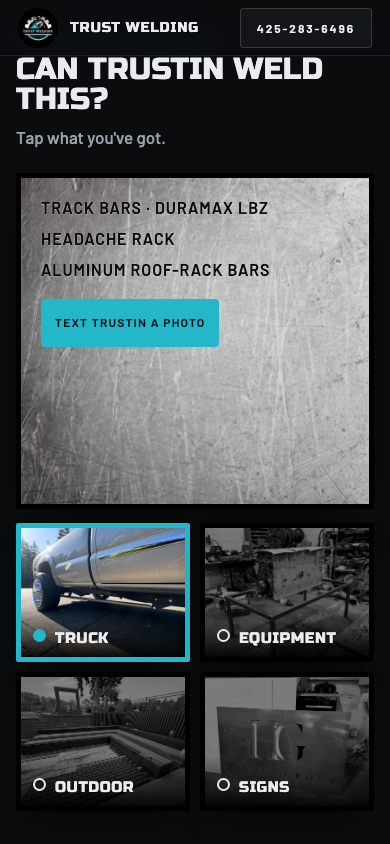
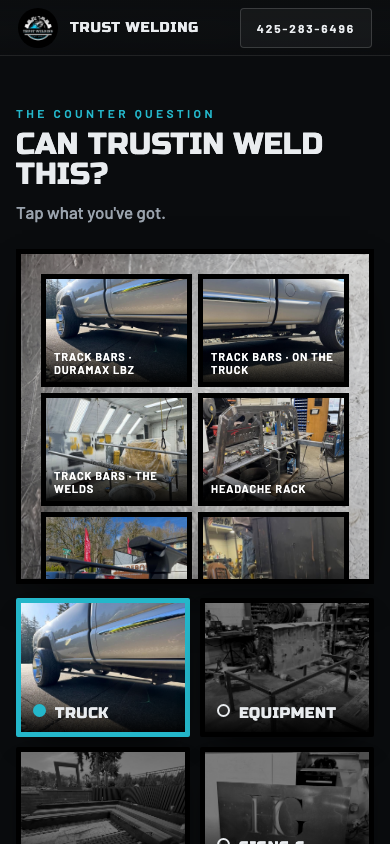
Trust Welding, Hayden 11/6: one stage in thirds (photo left, plate right), the weld seam wipes between every photo, words change per group; the gadget shows every photo of a kind; arc band out

diff --git a/trust-welding/learned/index.html b/trust-welding/learned/index.html
@@ -9,11 +9,11 @@
 <meta name="description" content="Trust Welding: custom metal fabrication and mobile welding serving King County. Steel, aluminum and Corten. Call or text 425-283-6496.">
 <link rel="preconnect" href="https://fonts.googleapis.com"><link rel="preconnect" href="https://fonts.gstatic.com" crossorigin>
 <link href="https://fonts.googleapis.com/css2?family=Russo+One&family=Barlow:wght@400;500;600&family=Archivo:wght@600;700&display=swap" rel="stylesheet">
-<link rel="stylesheet" href="css/site3.css?v=1793940878">
-<link rel="stylesheet" href="css/fold-text.css?v=1793940878">
-<link rel="stylesheet" href="css/wtj.css?v=1793940878">
-<link rel="stylesheet" href="css/molten-metal.css?v=1793940878">
-<link rel="stylesheet" href="css/learned.css?v=1793940878">
+<link rel="stylesheet" href="css/site3.css?v=1793980238">
+<link rel="stylesheet" href="css/fold-text.css?v=1793980238">
+<link rel="stylesheet" href="css/wtj.css?v=1793980238">
+<link rel="stylesheet" href="css/molten-metal.css?v=1793980238">
+<link rel="stylesheet" href="css/learned.css?v=1793980238">
 <link rel="icon" href="images/badge.jpg">
 </head>
 <body>
@@ -34,8 +34,9 @@
   </section>
   <!-- life: a gliding strip of his real jobs (every name from his own captions) -->
   <div class="clients" aria-label="Jobs on this page"><div class="clients-track" id="clientsTrack"><span>Colibri Coffee Roasters</span><i aria-hidden="true"></i><span>Premier Chiropractic</span><i aria-hidden="true"></i><span>Hopper Group</span><i aria-hidden="true"></i><span>a Seattle cocktail door</span><i aria-hidden="true"></i><span>a Corten fire pit in Snohomish</span><i aria-hidden="true"></i><span>a Cat rebuild</span><i aria-hidden="true"></i><span>track bars for a Duramax</span><i aria-hidden="true"></i><span>a gantry lift</span><i aria-hidden="true"></i></div></div>
-  <div class="flow" id="flow" data-per="3">
-    <div class="photos" aria-label="His work, from his Instagram">
+  <section class="stageflow" id="flow" data-per="3" style="--shots:12" aria-label="His work">
+    <div class="sstage">
+      <div class="shot" aria-label="His work, from his Instagram">
       <figure><img src="images/work/premier-chiropractic-install.jpg" srcset="images/work/phone/premier-chiropractic-install.jpg 760w, images/work/1080/premier-chiropractic-install.jpg 1080w, images/work/premier-chiropractic-install.jpg 1400w" sizes="(max-width:900px) 90vw, 46vw" width="1290" height="2294" alt="Install · Premier Chiropractic" loading="lazy" decoding="async"><figcaption>Install · Premier Chiropractic</figcaption></figure>
       <figure><img src="images/work/headache-rack.jpg" srcset="images/work/phone/headache-rack.jpg 760w, images/work/1080/headache-rack.jpg 1080w, images/work/headache-rack.jpg 1400w" sizes="(max-width:900px) 90vw, 46vw" width="1400" height="1392" alt="Headache rack" loading="lazy" decoding="async"><figcaption>Headache rack</figcaption></figure>
       <figure><img src="images/work/d-rings-roll-off-bed.jpg" srcset="images/work/phone/d-rings-roll-off-bed.jpg 760w, images/work/1080/d-rings-roll-off-bed.jpg 1080w, images/work/d-rings-roll-off-bed.jpg 1400w" sizes="(max-width:900px) 90vw, 46vw" width="640" height="1136" alt="D-rings · roll-off bed" loading="lazy" decoding="async"><figcaption>D-rings · roll-off bed</figcaption></figure>
@@ -48,17 +49,19 @@
       <figure><img src="images/work/mariners-trident-2.jpg" srcset="images/work/phone/mariners-trident-2.jpg 760w, images/work/1080/mariners-trident-2.jpg 1080w, images/work/mariners-trident-2.jpg 1400w" sizes="(max-width:900px) 90vw, 46vw" width="1400" height="1606" alt="Trident cut-out · second piece" loading="lazy" decoding="async"><figcaption>Trident cut-out · second piece</figcaption></figure>
       <figure><img src="images/work/gantry-lift-2.jpg" srcset="images/work/phone/gantry-lift-2.jpg 760w, images/work/1080/gantry-lift-2.jpg 1080w, images/work/gantry-lift-2.jpg 1400w" sizes="(max-width:900px) 90vw, 46vw" width="1400" height="1866" alt="Gantry lift · second view" loading="lazy" decoding="async"><figcaption>Gantry lift · second view</figcaption></figure>
       <figure><img src="images/work/gantry-lift-3.jpg" srcset="images/work/phone/gantry-lift-3.jpg 760w, images/work/1080/gantry-lift-3.jpg 1080w, images/work/gantry-lift-3.jpg 1400w" sizes="(max-width:900px) 90vw, 46vw" width="1400" height="1866" alt="Gantry lift · the frame" loading="lazy" decoding="async"><figcaption>Gantry lift · the frame</figcaption></figure>
-    </div>
-    <aside class="panel" aria-label="About the work">
-      <div class="stack">
+        <div class="seam" aria-hidden="true"></div>
+      </div>
+      <aside class="panel" aria-label="About the work">
+        <div class="stack">
         <section class="sec" id="what" aria-label="What he does"><div class="fold"><p class="eyebrow">What he does</p><h2>The install at Premier Chiropractic. Racks on your truck.</h2><p>Custom pieces built to the job, and mobile welding when the job can’t come to the shop. Steel, aluminum and Corten.</p><ul><li>Custom fabrication: signs, gates, railings, planters, racks, counters, etc.</li><li>Mobile welding across King County</li><li>Structural and equipment repair</li><li>Truck and trailer work: track bars, headache racks, roof racks, D-rings, and more</li></ul></div></section>
         <section class="sec" id="trucks" aria-label="Trucks, trailers and the machines they feed"><div class="fold"><p class="eyebrow">Trucks, trailers and the machines they feed</p><h2>Duramax track bars to a Cat motor mount</h2><p>Track bars for a Duramax, aluminum roof-rack bars, a headache rack, D-rings on a roll-off bed. A motor mount for a Cat rebuild, a gantry lift built from the frame up, equipment repair where the machine sits.</p></div></section>
         <section class="sec" id="outside" aria-label="Outside, and inside for business"><div class="fold"><p class="eyebrow">Outside, and inside for business</p><h2>Corten in Snohomish. A bar for Colibri.</h2><p>A Corten fire pit in Snohomish, custom steel planter boxes, a sign for Hopper Group. The barista bar rail at Colibri Coffee Roasters, a trident cut-out for a Seattle cocktail door, the install at Premier Chiropractic. Built in the shop, set in place on site.</p></div></section>
         <section class="sec" id="why" aria-label="The shop"><div class="fold"><p class="eyebrow">The shop</p><h2>Est. 2025, eleven jobs posted</h2><p>One welder, start to finish. You talk to the person holding the torch. Every photo here is work he posted. Text a photo and a rough size.</p><div class="ways"><a class="btn primary" href="sms:+14252836496">Text 425-283-6496</a><a class="btn" href="#quote">The form</a></div></div></section>
-        <div class="dots" aria-hidden="true"></div>
-      </div>
-    </aside>
-  </div>
+          <div class="dots" aria-hidden="true"></div>
+        </div>
+      </aside>
+    </div>
+  </section>
   <section class="wtj" id="whats-the-job" aria-labelledby="wtj-h">
     <div class="wtj-in">
       <p class="wtj-eyebrow">The counter question</p>
@@ -73,7 +76,7 @@
       </div>
     </div>
   </section>
-  <section class="quote" id="quote"><span id="contact"></span><div class="arc" id="arc" aria-hidden="true"></div>
+  <section class="quote" id="quote"><span id="contact"></span>
     <div class="quote-in">
       <div>
         <p class="eyebrow">Quote</p>
@@ -103,13 +106,13 @@
 </footer>
 <script src="js/vendor/gsap.min.js"></script>
 <script src="js/vendor/ScrollTrigger.min.js"></script>
-<script src="js/vendor/fold-text.js?v=1793940878"></script>
-<script src="js/vendor/wtj/whats-the-job.js?v=1793940878"></script>
+<script src="js/vendor/fold-text.js?v=1793980238"></script>
+<script src="js/vendor/wtj/whats-the-job.js?v=1793980238"></script>
 <script>
 // the panel holds; the section changes every 3 photos (the photo column's scroll progress); every time a section opens its words fold open (React Bits Fold Text, ported: js/vendor/fold-text.js)
 gsap.registerPlugin(ScrollTrigger);
 const reduce = matchMedia('(prefers-reduced-motion: reduce)').matches;
-const secs = [...document.querySelectorAll('.sec')], photos = document.querySelector('.photos'), figs = [...photos.querySelectorAll('figure')], dots = document.querySelector('.dots');
+const secs = [...document.querySelectorAll('.sec')], shot = document.querySelector('.shot'), figs = [...shot.querySelectorAll('figure')], seam = shot.querySelector('.seam'), flow = document.getElementById('flow'), dots = document.querySelector('.dots');
 secs.forEach(() => dots.appendChild(document.createElement('i')));
 const folds = secs.map(s => reduce ? [] : [...s.querySelectorAll('h2, p, li')].map(el => buildFoldText(el, el.tagName === 'H2' ? { splitBy: 'char', stagger: Math.min(0.045, 0.6 / Math.max(1, el.textContent.trim().length)) } : { splitBy: 'word', stagger: Math.min(0.03, 0.5 / Math.max(1, el.textContent.trim().split(/\s+/).length)) })));   // h2 by letter (the original's default), paragraphs and list items by word
 let cur = -1;
@@ -125,14 +128,19 @@ function show(i) {
   gsap.killTweensOf(rest);
   gsap.fromTo(rest, { y: 14, opacity: 0 }, { y: 0, opacity: 1, duration: 0.55, ease: 'power2.out', stagger: 0.06, delay: 0.25 });
 }
-// which section: the index of the photo nearest the middle of the screen, divided by 3
-const per = 3;
-function pick() {
-  const mid = innerHeight * 0.5; let best = 0, gap = Infinity;
-  figs.forEach((f, k) => { const r = f.getBoundingClientRect(); const c = r.top + r.height / 2; const d = Math.abs(c - mid); if (d < gap) { gap = d; best = k; } });
-  show(Math.min(secs.length - 1, Math.floor(best / per)));
-}
-ScrollTrigger.create({ trigger: photos, start: 'top 85%', end: 'bottom 15%', onUpdate: pick, onEnter: pick });
+// the photos change with the weld seam as you scroll (the Colibri move, on every photo; Hayden 11/6); the words change every 3 photos
+const per = 3, total = figs.length - 1 + 0.4;
+if (!reduce && figs.length > 1) {
+  const tl = gsap.timeline({ defaults: { ease: 'none' } });
+  for (let i = 1; i < figs.length; i++) {
+    const t = i - 0.55;
+    tl.fromTo(figs[i], { clipPath: 'inset(0% 0% 100% 0%)' }, { clipPath: 'inset(0% 0% 0% 0%)', duration: 0.42, ease: 'power1.inOut' }, t)
+      .fromTo(seam, { top: '0%', opacity: 1 }, { top: '100%', duration: 0.42, ease: 'power1.inOut' }, t).to(seam, { opacity: 0, duration: 0.08 }, t + 0.42);
+  }
+  tl.to({}, { duration: 0.4 });
+  ScrollTrigger.create({ trigger: flow, start: 'top top', end: 'bottom bottom', scrub: 0.35, animation: tl,
+    onUpdate: self => { const idx = Math.max(0, Math.min(figs.length - 1, Math.floor(self.progress * total + 0.2))); show(Math.min(secs.length - 1, Math.floor(idx / per))); } });
+} else { figs.forEach((f, i) => { f.style.position = 'relative'; f.style.clipPath = 'none'; }); }
 // the quote section folds open too (Hayden 11/4: "Add the animated content to the contact page. The quote tell me about your job.")
 if (!reduce) {
   const q = document.querySelector('.quote'); const qf = [...q.querySelectorAll('.quote-in > div > h2, .quote-in > div > p, .quote-in > div > .eyebrow')].filter(el => el.textContent.trim()).map(el => buildFoldText(el, el.tagName === 'H2' ? { splitBy: 'char', stagger: Math.min(0.045, 0.6 / Math.max(1, el.textContent.trim().length)) } : { splitBy: 'word', stagger: Math.min(0.03, 0.5 / Math.max(1, el.textContent.trim().split(/\s+/).length)) }));
@@ -146,7 +154,7 @@ if (!reduce) {
   set(); addEventListener('resize', set); if (document.fonts) document.fonts.ready.then(set);
 })();
 </script>
-<script src="js/learned.js?v=1793940878"></script>
+<script src="js/learned.js?v=1793980238"></script>
 <script>
 // Format panel (Hayden 11/4: "themes or formats… for me to manually adjust and edit"): localhost or ?edit=1; sliders set CSS variables on <html>, remembered in localStorage 'tw-format'; Copy puts the JSON on the clipboard
 if ((location.hostname === 'localhost' || location.search.includes('edit=1')) && !location.search.includes('nofmt')) (function () {

diff --git a/trust-welding/versions/learned.html b/trust-welding/versions/learned.html
@@ -9,11 +9,11 @@
 <meta name="description" content="Trust Welding: custom metal fabrication and mobile welding serving King County. Steel, aluminum and Corten. Call or text 425-283-6496.">
 <link rel="preconnect" href="https://fonts.googleapis.com"><link rel="preconnect" href="https://fonts.gstatic.com" crossorigin>
 <link href="https://fonts.googleapis.com/css2?family=Russo+One&family=Barlow:wght@400;500;600&family=Archivo:wght@600;700&display=swap" rel="stylesheet">
-<link rel="stylesheet" href="css/site3.css?v=1793940878">
-<link rel="stylesheet" href="css/fold-text.css?v=1793940878">
-<link rel="stylesheet" href="css/wtj.css?v=1793940878">
-<link rel="stylesheet" href="css/molten-metal.css?v=1793940878">
-<link rel="stylesheet" href="css/learned.css?v=1793940878">
+<link rel="stylesheet" href="css/site3.css?v=1793980238">
+<link rel="stylesheet" href="css/fold-text.css?v=1793980238">
+<link rel="stylesheet" href="css/wtj.css?v=1793980238">
+<link rel="stylesheet" href="css/molten-metal.css?v=1793980238">
+<link rel="stylesheet" href="css/learned.css?v=1793980238">
 <link rel="icon" href="images/badge.jpg">
 </head>
 <body>
@@ -34,8 +34,9 @@
   </section>
   <!-- life: a gliding strip of his real jobs (every name from his own captions) -->
   <div class="clients" aria-label="Jobs on this page"><div class="clients-track" id="clientsTrack"><span>Colibri Coffee Roasters</span><i aria-hidden="true"></i><span>Premier Chiropractic</span><i aria-hidden="true"></i><span>Hopper Group</span><i aria-hidden="true"></i><span>a Seattle cocktail door</span><i aria-hidden="true"></i><span>a Corten fire pit in Snohomish</span><i aria-hidden="true"></i><span>a Cat rebuild</span><i aria-hidden="true"></i><span>track bars for a Duramax</span><i aria-hidden="true"></i><span>a gantry lift</span><i aria-hidden="true"></i></div></div>
-  <div class="flow" id="flow" data-per="3">
-    <div class="photos" aria-label="His work, from his Instagram">
+  <section class="stageflow" id="flow" data-per="3" style="--shots:12" aria-label="His work">
+    <div class="sstage">
+      <div class="shot" aria-label="His work, from his Instagram">
       <figure><img src="images/work/premier-chiropractic-install.jpg" srcset="images/work/phone/premier-chiropractic-install.jpg 760w, images/work/1080/premier-chiropractic-install.jpg 1080w, images/work/premier-chiropractic-install.jpg 1400w" sizes="(max-width:900px) 90vw, 46vw" width="1290" height="2294" alt="Install · Premier Chiropractic" loading="lazy" decoding="async"><figcaption>Install · Premier Chiropractic</figcaption></figure>
       <figure><img src="images/work/headache-rack.jpg" srcset="images/work/phone/headache-rack.jpg 760w, images/work/1080/headache-rack.jpg 1080w, images/work/headache-rack.jpg 1400w" sizes="(max-width:900px) 90vw, 46vw" width="1400" height="1392" alt="Headache rack" loading="lazy" decoding="async"><figcaption>Headache rack</figcaption></figure>
       <figure><img src="images/work/d-rings-roll-off-bed.jpg" srcset="images/work/phone/d-rings-roll-off-bed.jpg 760w, images/work/1080/d-rings-roll-off-bed.jpg 1080w, images/work/d-rings-roll-off-bed.jpg 1400w" sizes="(max-width:900px) 90vw, 46vw" width="640" height="1136" alt="D-rings · roll-off bed" loading="lazy" decoding="async"><figcaption>D-rings · roll-off bed</figcaption></figure>
@@ -48,17 +49,19 @@
       <figure><img src="images/work/mariners-trident-2.jpg" srcset="images/work/phone/mariners-trident-2.jpg 760w, images/work/1080/mariners-trident-2.jpg 1080w, images/work/mariners-trident-2.jpg 1400w" sizes="(max-width:900px) 90vw, 46vw" width="1400" height="1606" alt="Trident cut-out · second piece" loading="lazy" decoding="async"><figcaption>Trident cut-out · second piece</figcaption></figure>
       <figure><img src="images/work/gantry-lift-2.jpg" srcset="images/work/phone/gantry-lift-2.jpg 760w, images/work/1080/gantry-lift-2.jpg 1080w, images/work/gantry-lift-2.jpg 1400w" sizes="(max-width:900px) 90vw, 46vw" width="1400" height="1866" alt="Gantry lift · second view" loading="lazy" decoding="async"><figcaption>Gantry lift · second view</figcaption></figure>
       <figure><img src="images/work/gantry-lift-3.jpg" srcset="images/work/phone/gantry-lift-3.jpg 760w, images/work/1080/gantry-lift-3.jpg 1080w, images/work/gantry-lift-3.jpg 1400w" sizes="(max-width:900px) 90vw, 46vw" width="1400" height="1866" alt="Gantry lift · the frame" loading="lazy" decoding="async"><figcaption>Gantry lift · the frame</figcaption></figure>
-    </div>
-    <aside class="panel" aria-label="About the work">
-      <div class="stack">
+        <div class="seam" aria-hidden="true"></div>
+      </div>
+      <aside class="panel" aria-label="About the work">
+        <div class="stack">
         <section class="sec" id="what" aria-label="What he does"><div class="fold"><p class="eyebrow">What he does</p><h2>The install at Premier Chiropractic. Racks on your truck.</h2><p>Custom pieces built to the job, and mobile welding when the job can’t come to the shop. Steel, aluminum and Corten.</p><ul><li>Custom fabrication: signs, gates, railings, planters, racks, counters, etc.</li><li>Mobile welding across King County</li><li>Structural and equipment repair</li><li>Truck and trailer work: track bars, headache racks, roof racks, D-rings, and more</li></ul></div></section>
         <section class="sec" id="trucks" aria-label="Trucks, trailers and the machines they feed"><div class="fold"><p class="eyebrow">Trucks, trailers and the machines they feed</p><h2>Duramax track bars to a Cat motor mount</h2><p>Track bars for a Duramax, aluminum roof-rack bars, a headache rack, D-rings on a roll-off bed. A motor mount for a Cat rebuild, a gantry lift built from the frame up, equipment repair where the machine sits.</p></div></section>
         <section class="sec" id="outside" aria-label="Outside, and inside for business"><div class="fold"><p class="eyebrow">Outside, and inside for business</p><h2>Corten in Snohomish. A bar for Colibri.</h2><p>A Corten fire pit in Snohomish, custom steel planter boxes, a sign for Hopper Group. The barista bar rail at Colibri Coffee Roasters, a trident cut-out for a Seattle cocktail door, the install at Premier Chiropractic. Built in the shop, set in place on site.</p></div></section>
         <section class="sec" id="why" aria-label="The shop"><div class="fold"><p class="eyebrow">The shop</p><h2>Est. 2025, eleven jobs posted</h2><p>One welder, start to finish. You talk to the person holding the torch. Every photo here is work he posted. Text a photo and a rough size.</p><div class="ways"><a class="btn primary" href="sms:+14252836496">Text 425-283-6496</a><a class="btn" href="#quote">The form</a></div></div></section>
-        <div class="dots" aria-hidden="true"></div>
-      </div>
-    </aside>
-  </div>
+          <div class="dots" aria-hidden="true"></div>
+        </div>
+      </aside>
+    </div>
+  </section>
   <section class="wtj" id="whats-the-job" aria-labelledby="wtj-h">
     <div class="wtj-in">
       <p class="wtj-eyebrow">The counter question</p>
@@ -73,7 +76,7 @@
       </div>
     </div>
   </section>
-  <section class="quote" id="quote"><span id="contact"></span><div class="arc" id="arc" aria-hidden="true"></div>
+  <section class="quote" id="quote"><span id="contact"></span>
     <div class="quote-in">
       <div>
         <p class="eyebrow">Quote</p>
@@ -103,13 +106,13 @@
 </footer>
 <script src="js/vendor/gsap.min.js"></script>
 <script src="js/vendor/ScrollTrigger.min.js"></script>
-<script src="js/vendor/fold-text.js?v=1793940878"></script>
-<script src="js/vendor/wtj/whats-the-job.js?v=1793940878"></script>
+<script src="js/vendor/fold-text.js?v=1793980238"></script>
+<script src="js/vendor/wtj/whats-the-job.js?v=1793980238"></script>
 <script>
 // the panel holds; the section changes every 3 photos (the photo column's scroll progress); every time a section opens its words fold open (React Bits Fold Text, ported: js/vendor/fold-text.js)
 gsap.registerPlugin(ScrollTrigger);
 const reduce = matchMedia('(prefers-reduced-motion: reduce)').matches;
-const secs = [...document.querySelectorAll('.sec')], photos = document.querySelector('.photos'), figs = [...photos.querySelectorAll('figure')], dots = document.querySelector('.dots');
+const secs = [...document.querySelectorAll('.sec')], shot = document.querySelector('.shot'), figs = [...shot.querySelectorAll('figure')], seam = shot.querySelector('.seam'), flow = document.getElementById('flow'), dots = document.querySelector('.dots');
 secs.forEach(() => dots.appendChild(document.createElement('i')));
 const folds = secs.map(s => reduce ? [] : [...s.querySelectorAll('h2, p, li')].map(el => buildFoldText(el, el.tagName === 'H2' ? { splitBy: 'char', stagger: Math.min(0.045, 0.6 / Math.max(1, el.textContent.trim().length)) } : { splitBy: 'word', stagger: Math.min(0.03, 0.5 / Math.max(1, el.textContent.trim().split(/\s+/).length)) })));   // h2 by letter (the original's default), paragraphs and list items by word
 let cur = -1;
@@ -125,14 +128,19 @@ function show(i) {
   gsap.killTweensOf(rest);
   gsap.fromTo(rest, { y: 14, opacity: 0 }, { y: 0, opacity: 1, duration: 0.55, ease: 'power2.out', stagger: 0.06, delay: 0.25 });
 }
-// which section: the index of the photo nearest the middle of the screen, divided by 3
-const per = 3;
-function pick() {
-  const mid = innerHeight * 0.5; let best = 0, gap = Infinity;
-  figs.forEach((f, k) => { const r = f.getBoundingClientRect(); const c = r.top + r.height / 2; const d = Math.abs(c - mid); if (d < gap) { gap = d; best = k; } });
-  show(Math.min(secs.length - 1, Math.floor(best / per)));
-}
-ScrollTrigger.create({ trigger: photos, start: 'top 85%', end: 'bottom 15%', onUpdate: pick, onEnter: pick });
+// the photos change with the weld seam as you scroll (the Colibri move, on every photo; Hayden 11/6); the words change every 3 photos
+const per = 3, total = figs.length - 1 + 0.4;
+if (!reduce && figs.length > 1) {
+  const tl = gsap.timeline({ defaults: { ease: 'none' } });
+  for (let i = 1; i < figs.length; i++) {
+    const t = i - 0.55;
+    tl.fromTo(figs[i], { clipPath: 'inset(0% 0% 100% 0%)' }, { clipPath: 'inset(0% 0% 0% 0%)', duration: 0.42, ease: 'power1.inOut' }, t)
+      .fromTo(seam, { top: '0%', opacity: 1 }, { top: '100%', duration: 0.42, ease: 'power1.inOut' }, t).to(seam, { opacity: 0, duration: 0.08 }, t + 0.42);
+  }
+  tl.to({}, { duration: 0.4 });
+  ScrollTrigger.create({ trigger: flow, start: 'top top', end: 'bottom bottom', scrub: 0.35, animation: tl,
+    onUpdate: self => { const idx = Math.max(0, Math.min(figs.length - 1, Math.floor(self.progress * total + 0.2))); show(Math.min(secs.length - 1, Math.floor(idx / per))); } });
+} else { figs.forEach((f, i) => { f.style.position = 'relative'; f.style.clipPath = 'none'; }); }
 // the quote section folds open too (Hayden 11/4: "Add the animated content to the contact page. The quote tell me about your job.")
 if (!reduce) {
   const q = document.querySelector('.quote'); const qf = [...q.querySelectorAll('.quote-in > div > h2, .quote-in > div > p, .quote-in > div > .eyebrow')].filter(el => el.textContent.trim()).map(el => buildFoldText(el, el.tagName === 'H2' ? { splitBy: 'char', stagger: Math.min(0.045, 0.6 / Math.max(1, el.textContent.trim().length)) } : { splitBy: 'word', stagger: Math.min(0.03, 0.5 / Math.max(1, el.textContent.trim().split(/\s+/).length)) }));
@@ -146,7 +154,7 @@ if (!reduce) {
   set(); addEventListener('resize', set); if (document.fonts) document.fonts.ready.then(set);
 })();
 </script>
-<script src="js/learned.js?v=1793940878"></script>
+<script src="js/learned.js?v=1793980238"></script>
 <script>
 // Format panel (Hayden 11/4: "themes or formats… for me to manually adjust and edit"): localhost or ?edit=1; sliders set CSS variables on <html>, remembered in localStorage 'tw-format'; Copy puts the JSON on the clipboard
 if ((location.hostname === 'localhost' || location.search.includes('edit=1')) && !location.search.includes('nofmt')) (function () {

diff --git a/trust-welding/js/learned.js b/trust-welding/js/learned.js
@@ -33,18 +33,12 @@
     const P = f => 'images/work/phone/' + f + '.jpg';
     WTJ.mount(g, { total: 11, totalLabel: 'Tap the kind of job you have.', sparks: false, plate: new URL('images/texture/panel-steel.jpg', document.baseURI).href, sms: SMS, button: 'Text Trustin a photo', smsBody: x => "Hi Trustin, I've got a " + x.ask + ". Here's a photo:",
       groups: [
-        { key: 'truck', label: 'Truck', alt: "Trustin's work on a Duramax pickup", cover: P('track-bars-duramax'), noun: 'truck jobs posted', ask: 'truck job', jobs: [{ caption: 'Track bars · Duramax LBZ' }, { caption: 'Headache rack' }, { caption: 'Aluminum roof-rack bars' }] },
-        { key: 'equipment', label: 'Equipment', alt: 'A Cat engine on a steel motor mount', cover: P('motor-mount-cat-rebuild'), noun: 'equipment jobs posted', ask: 'equipment job', jobs: [{ caption: 'D-rings · roll-off bed' }, { caption: 'Gantry lift' }, { caption: 'Motor mount · Cat rebuild' }] },
-        { key: 'outdoor', label: 'Outdoor', alt: 'Corten steel fire-pit cladding', cover: P('corten-fire-pit-snohomish'), noun: 'outdoor jobs posted', ask: 'yard or building job', jobs: [{ caption: 'Corten fire pit · Snohomish' }, { caption: 'Steel planter boxes' }, { caption: 'Premier Chiropractic install' }] },
-        { key: 'signs', label: 'Signs', alt: 'A custom steel sign for Hopper Group', cover: P('custom-sign-hopper-group'), noun: 'sign jobs posted', ask: 'sign or cut-out job', jobs: [{ caption: 'Custom sign · Hopper Group' }, { caption: 'Trident cut-out · a cocktail door' }] }
+        { key: 'truck', label: 'Truck', alt: "Trustin's work on a Duramax pickup", cover: P('track-bars-duramax'), noun: '', ask: 'truck job', jobs: [{ src: P('track-bars-duramax'), caption: 'Track bars · Duramax LBZ', pos: '30% 60%' }, { src: P('track-bars-2'), caption: 'Track bars · on the truck' }, { src: P('track-bars-3'), caption: 'Track bars · the welds' }, { src: P('headache-rack'), caption: 'Headache rack' }, { src: P('aluminum-roof-rack-bars'), caption: 'Aluminum roof-rack bars', pos: '60% 40%' }, { src: P('d-rings-roll-off-bed'), caption: 'D-rings · roll-off bed' }] },
+        { key: 'equipment', label: 'Equipment', alt: 'A Cat engine on a steel motor mount', cover: P('motor-mount-cat-rebuild'), noun: '', ask: 'equipment job', jobs: [{ src: P('motor-mount-cat-rebuild'), caption: 'Motor mount · Cat rebuild', pos: '62% 40%' }, { src: P('gantry-lift'), caption: 'Gantry lift' }, { src: P('gantry-lift-2'), caption: 'Gantry lift · second view' }, { src: P('gantry-lift-3'), caption: 'Gantry lift · the frame' }] },
+        { key: 'outdoor', label: 'Outdoor', alt: 'Corten steel fire-pit cladding', cover: P('corten-fire-pit-snohomish'), noun: '', ask: 'yard or building job', jobs: [{ src: P('corten-fire-pit-snohomish'), caption: 'Corten fire pit · Snohomish' }, { src: P('corten-fire-pit-2'), caption: 'Corten fire pit · the cladding, close' }, { src: P('steel-planter-boxes'), caption: 'Steel planter boxes', pos: '50% 70%' }] },
+        { key: 'signs', label: 'Signs & installs', alt: 'A custom steel sign for Hopper Group', cover: P('custom-sign-hopper-group'), noun: '', ask: 'sign, cut-out or install job', jobs: [{ src: P('custom-sign-hopper-group'), caption: 'Custom sign · Hopper Group' }, { src: P('custom-sign-hopper-2'), caption: 'Custom sign · in place' }, { src: P('mariners-trident-door'), caption: 'Trident cut-out · a cocktail door' }, { src: P('mariners-trident-2'), caption: 'Trident cut-out · second piece' }, { src: P('premier-chiropractic-install'), caption: 'Install · Premier Chiropractic', pos: '50% 75%' }] }
       ] });
   }
-  // 4 · the arc band under the quote (desktop only; one WebGL canvas, paused off-screen)
-  const arc = document.getElementById('arc');
-  if (arc && !reduce) import('./vendor/molten/molten-metal.js').then(({ createMoltenMetal }) => {
-    const phone = innerWidth <= 760; const mm = createMoltenMetal(arc, Object.assign({ colors: ['#24B7CA', '#FF7A1A'], coreColor: '#FFFFFF', backgroundColor: '#0A0C0E', speed: 0.25 }, phone ? { scale: 2.2 } : {}));
-    new IntersectionObserver(es => es.forEach(e => e.isIntersecting ? mm.resume() : mm.pause()), { threshold: 0.05 }).observe(arc);
-  }).catch(() => {});
   // 5 · the thumb bar: text or call under the thumb once the hero is gone, hidden while the quote section is on screen
   const tb = document.getElementById('thumb');
   const blockers = ['hero', 'quote'].map(id => document.getElementById(id)).filter(Boolean);

diff --git a/trust-welding/css/learned.css b/trust-welding/css/learned.css
@@ -95,3 +95,30 @@ body.thumb-on{padding-bottom:72px}@media (max-width:900px){body.thumb-on .panel{
 .wtj-count{display:none !important}.wtj-idle .wtj-sub{font:600 18px/1.3 var(--wtj-body);text-transform:none;letter-spacing:0}
 .wtj-tile canvas,.wtj canvas.click-spark,.click-spark-canvas{display:none !important}
 .wtj-idle .wtj-big{display:none !important}
+
+/* Hayden 11/6: one stage, thirds; the photos wipe with the weld seam; the words change per group */
+.stageflow{position:relative;height:calc(var(--shots,12) * 70svh);background:var(--bg)}
+.sstage{position:sticky;top:var(--header-h);height:calc(100svh - var(--header-h));display:grid;grid-template-columns:1fr 2fr;overflow:hidden}
+.sstage .shot{position:relative;margin:clamp(14px,2.5vh,28px) 0 clamp(14px,2.5vh,28px) var(--pad);border:var(--frame) solid #000;background:#000;box-shadow:0 24px 60px -28px rgba(0,0,0,.95);overflow:hidden}
+.sstage .shot figure{position:absolute;inset:0;margin:0;clip-path:inset(0 0 100% 0);border:0}.sstage .shot figure:first-child{clip-path:inset(0 0 0 0)}
+.sstage .shot img{width:100%;height:100%;object-fit:cover}
+.sstage .shot figcaption{position:absolute;left:0;right:0;bottom:0;padding:12px 14px;background:linear-gradient(to top,rgba(0,0,0,.88),rgba(0,0,0,0));color:#fff;font:600 12px/1.3 var(--body);letter-spacing:.14em;text-transform:uppercase}
+.sstage .shot figcaption::before{content:"";display:inline-block;width:8px;height:8px;margin-right:9px;background:var(--spark);transform:rotate(45deg);vertical-align:1px}
+.sstage .seam{position:absolute;left:-2px;right:-2px;height:3px;top:0;opacity:0;pointer-events:none;z-index:2;background:linear-gradient(90deg,rgba(255,122,26,0),#FFD9A8 18%,#fff 50%,#FFD9A8 82%,rgba(255,122,26,0));box-shadow:0 0 14px 3px rgba(255,122,26,.75),0 0 34px 8px rgba(255,122,26,.28)}
+.sstage .panel{position:static;height:auto;min-height:0;margin:0;box-shadow:inset var(--frame) 0 0 #000}
+.sstage .stack{height:100%}
+@media (max-width:900px){
+  .stageflow{height:calc(var(--shots,12) * 60svh)}
+  .sstage{grid-template-columns:1fr;grid-template-rows:34% 66%}
+  .sstage .shot{margin:12px var(--pad) 0}
+  .sstage .panel{position:static;bottom:auto;max-height:none;margin:0;box-shadow:inset 0 var(--frame) 0 #000}
+  .sstage .stack{max-height:none;min-height:0;height:100%;overflow:auto}
+}
+@media (prefers-reduced-motion:reduce){.stageflow{height:auto}.sstage{position:static;height:auto;display:block}.sstage .shot{height:auto}.sstage .shot figure{position:relative;clip-path:none;margin:0 0 12px}}
+.quote .arc{display:none}
+/* the gadget shows every photo of a kind (Hayden 11/6), three across */
+.wtj-photos{display:grid !important;grid-template-columns:repeat(3,1fr);grid-auto-flow:row;gap:6px;flex-direction:row}
+.wtj-photos figure{position:relative;aspect-ratio:4/3;margin:0;overflow:hidden;border:var(--frame) solid #000;background:#000}
+.wtj-photos figure img{width:100%;height:100%;object-fit:cover;display:block}
+.wtj-photos figure figcaption{position:absolute;left:0;right:0;bottom:0;padding:16px 8px 6px;background:linear-gradient(to top,rgba(0,0,0,.9),rgba(0,0,0,0));color:#fff;font:600 11px/1.2 var(--wtj-body);letter-spacing:.08em;text-transform:uppercase}
+@media (max-width:760px){.wtj-photos{grid-template-columns:repeat(2,1fr)}}
